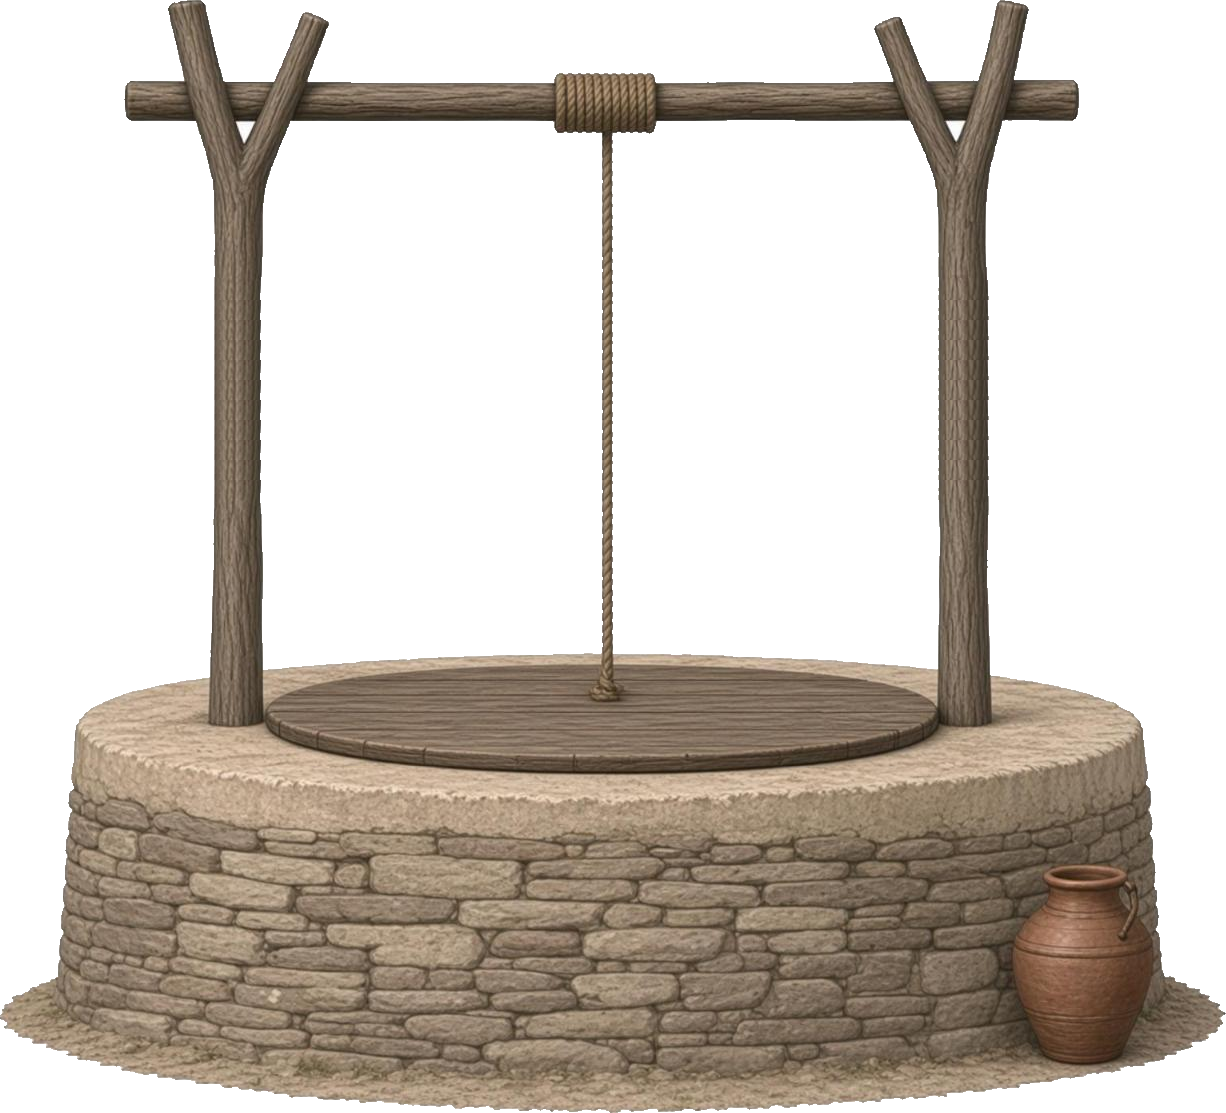
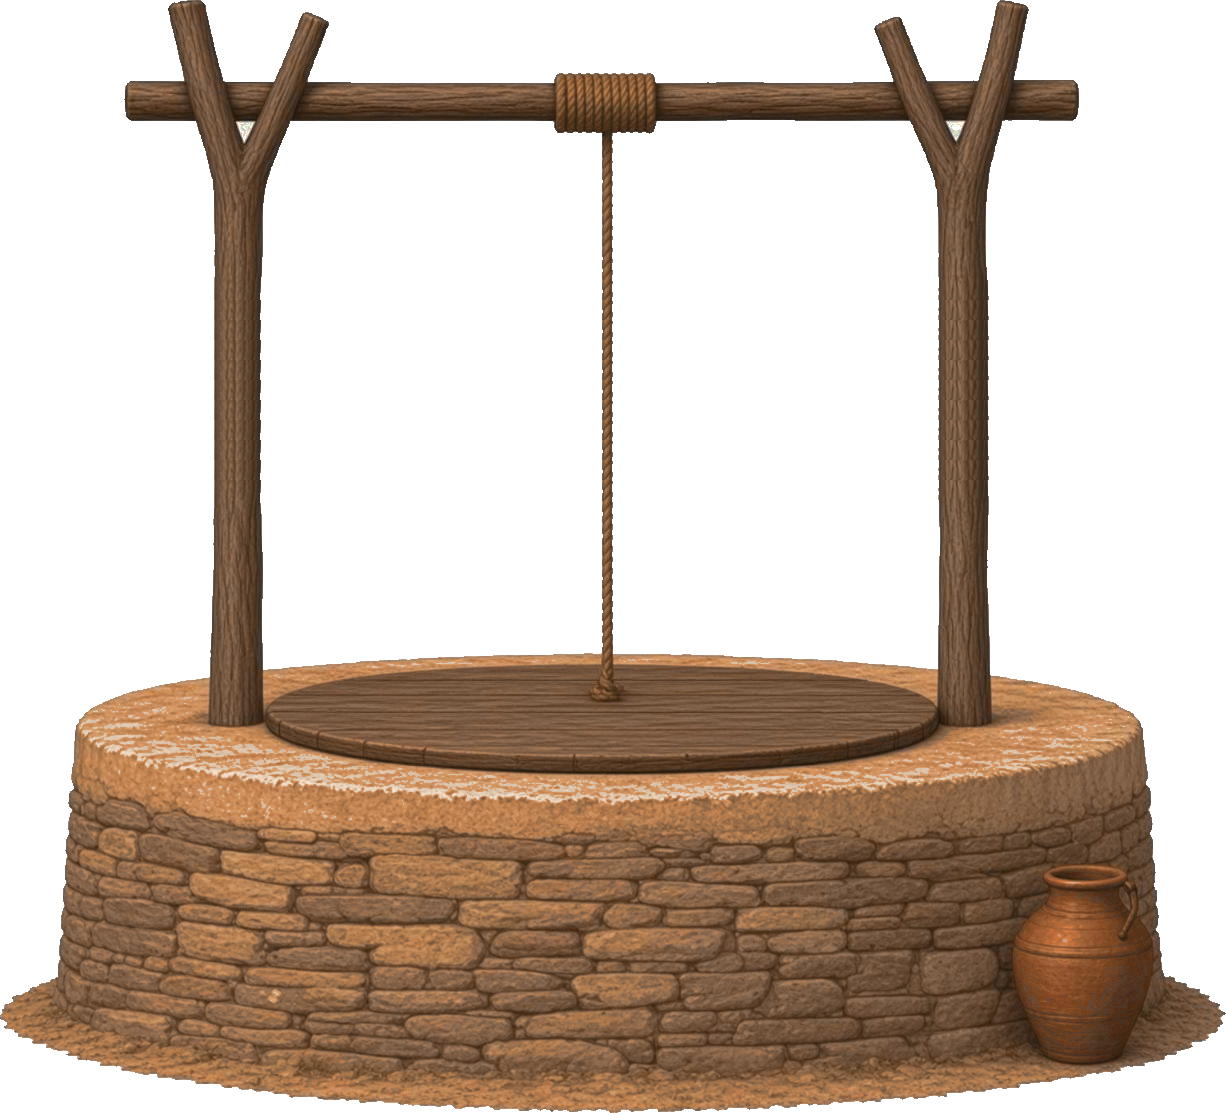
Loopput van de savanne: steen en zand in het oker van de hutten
De steenput was nog grijs en leek daardoor op Ishmul. tools/loopput_kleur.py maakt de steen en het zand van de
Grok-plaat voller, iets donkerder en okerkleurig; de bronplaat staat in bron/.

Claude-Session: https://claude.ai/code/session_01XPDva4cfrtEHEjj2jN1xSy

diff --git a/tools/loopput_kleur.py b/tools/loopput_kleur.py
@@ -1,0 +1,31 @@
+#!/usr/bin/env python3
+"""De loopput van de savanne in de kleur van het dorp: de steen en het zand van de Grok-plaat
+(bron/put_loop_savanne_bron.png) voller en iets donkerder, richting het oker van de hutten en de savannegrond.
+De kruik (al terracotta, voller) blijft zoals hij is. Schrijft design/savanne/putten/put_loop_savanne.png."""
+import colorsys
+import numpy as np
+from PIL import Image
+
+BRON = 'design/savanne/putten/bron/put_loop_savanne_bron.png'
+UIT = 'design/savanne/putten/put_loop_savanne.png'
+TINT = 25 / 360      # de tint van het oker van de hutten
+VOL = 2.1            # verzadiging erbij
+LICHT = 0.80         # iets donkerder
+GRENS = 0.36         # alleen wat grijzer is dan dit (steen, zand, hout); de kruik niet
+
+im = Image.open(BRON).convert('RGBA')
+a = np.array(im).astype(np.float64) / 255
+rgb = a[..., :3].reshape(-1, 3)
+uit = rgb.copy()
+for i, (r, g, b) in enumerate(rgb):
+    h, l, s = colorsys.rgb_to_hls(r, g, b)
+    if s > GRENS:
+        continue
+    w = 1 - s / GRENS * 0.35                         # hoe grijzer, hoe meer
+    h2 = h + (TINT - h) * 0.9 * w
+    s2 = min(1, s * (1 + (VOL - 1) * w))
+    l2 = l * (1 - (1 - LICHT) * w)
+    uit[i] = colorsys.hls_to_rgb(h2, l2, s2)
+a[..., :3] = uit.reshape(a[..., :3].shape)
+Image.fromarray((a * 255 + 0.5).astype(np.uint8)).save(UIT)
+print('geschreven', UIT)

diff --git a/notities/stijlproef.md b/notities/stijlproef.md
@@ -39,6 +39,8 @@ een eigen gezicht):
 - **savanne** (de standaard, `design/savanne/putten/put_loop_savanne.png`, Grok d77b641d): de steenput van het dorp
   (put_steen) breed en laag gemaakt, met gevorkte takken, een houten deksel en een kruik ernaast, net zo rustig geschilderd
   als de rest. Een eerdere, verweerde versie (Grok 48c99908) zag er te echt uit naast de stad en is vervangen.
+  De kleur komt uit `tools/loopput_kleur.py`: de steen en het zand van de Grok-plaat (`bron/put_loop_savanne_bron.png`)
+  voller, iets donkerder en naar het oker van de hutten (tint 25, verzadiging x2,1, licht x0,8); de kruik blijft.
 - **stad** (`soort: 'stad'`, `put_loop_stad.png`, Grok fee91518): de gepleisterde leemput met een rond houten deksel,
   rechte palen en een kuipemmer. Hoort eerder in Ishmul.
 
